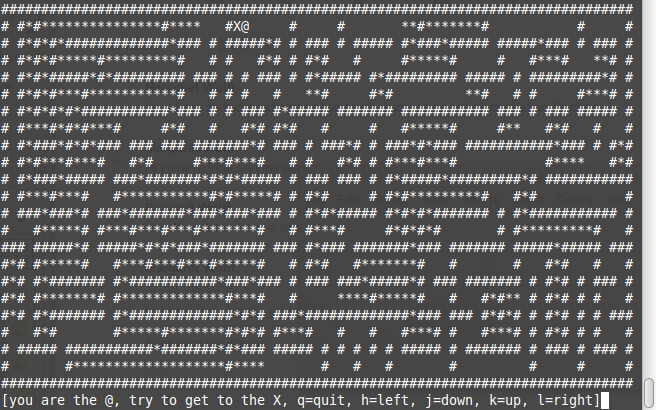
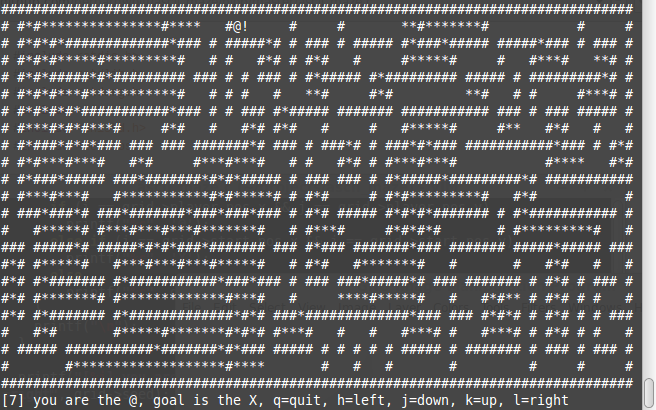
show seed on screen, updated readme

Changed region(s): [[0.0, 0.9366, 0.9451, 1.0], [0.3354, 0.0585, 0.3963, 0.0878], [0.4878, 0.4976, 0.5183, 0.5268]]

diff --git a/ascii_maze.c b/ascii_maze.c
@@ -20,8 +20,8 @@
 #define WALL '#'
 // the exit is actually the starting position, but we're using the
 // terminology from the wikipedia article
-#define EXIT_X 1
-#define EXIT_Y 1
+#define EXIT_X 1 // x-coordinate of the exit position
+#define EXIT_Y 1 // y-coordinate of the exit position
 #define NORTH 0
 #define SOUTH 1
 #define EAST 2
@@ -67,6 +67,7 @@ typedef struct
   // actually the goal position, but we're using the terminology from
   // the wikipedia article
   coord start_pos;
+  unsigned int seed;
 } maze_grid;
 
 int debug_printf(const char *format, ...)
@@ -96,6 +97,8 @@ void initialize(maze_grid* grid)
   {
     grid->cells[i] = (char*)malloc(sizeof(char) * grid->height);
   }
+
+  srand(grid->seed);
 
   debug_printf("initialized\n");
 }
@@ -148,6 +151,8 @@ void generate(maze_grid* grid, coord* cur, int depth)
 
   depth++;
 
+  // this will make the start position (actually the goal) as deep in
+  // the maze as possible
   if (depth > grid->max_depth)
   {
     grid->max_depth = depth;
@@ -208,6 +213,8 @@ void print(maze_grid* grid)
     }
     printf("\n");
   }
+
+  printf("[%i] you are the @, goal is the X, q=quit, h=left, j=down, k=up, l=right", grid->seed);
 }
 
 void move_player(maze_grid* grid, char key)
@@ -247,7 +254,6 @@ void game_loop(maze_grid* grid)
   do
   {
     print(grid);
-    printf("[you are the @, try to get to the X, q=quit, h=left, j=down, k=up, l=right]");
     fflush(stdout);
     //c = getchar();
     c = getch();
@@ -259,14 +265,12 @@ void game_loop(maze_grid* grid)
 int main(int argc, char *argv[])
 {
   maze_grid grid;
-  unsigned int seed;
   time_t t;
 
-  if (argc > 1) seed = atoi(argv[1]);
-  else seed = (unsigned)time(&t);
+  if (argc > 1) grid.seed = atoi(argv[1]);
+  else grid.seed = (unsigned)time(&t);
 
-  printf("using seed %i\n", seed);
-  srand(seed);
+  printf("using seed %i\n", grid.seed);
   debug_printf("aMAZEing\n");
   initialize(&grid);
   clear(&grid);

diff --git a/README.md b/README.md
@@ -33,13 +33,16 @@ which works like this (from Wikipedia):
 2. Mark the current cell as visited, and get a list of its neighbors. For each neighbor, starting with a randomly selected neighbor:
   1. If that neighbor hasn't been visited, remove the wall between this cell and that neighbor, and then recur with that neighbor as the current cell.
 
-The entire screen is reprinted every time you move, and is intended to be
-played on an 80x24 terminal.  It will probably work (but look weird) on a
-larger terminal, and probably not work at all on a smaller one.  I'm working
-on making it playable on any size terminal.  This is actually easy to do, the
-code just needs to check the current terminal size, and then set the
-grid->width and grid->height properties at runtime (instead of defining them
-with preprocessor macros).
+The entire screen is reprinted every time you move. The game is intended
+to be played on an 80x24 terminal.  It will probably work (but look weird)
+on a larger terminal, and probably not work at all on a smaller one.  I'm
+working on making it playable on any size terminal.  This is actually easy
+to do, the code just needs to check the current terminal size, and then
+set the grid->width and grid->height properties at runtime (instead of
+defining them with preprocessor macros).  A possible enhancement would be
+to use ncurses to avoid filling up the terminal scroll buffer with useless
+garbage.  From another perspective, having a history of what moves you made
+could be useful, e.g. to see a replay of your game just by scrolling up.
 
 ##What it looks like
 ![maze 7](screenshot.png)
